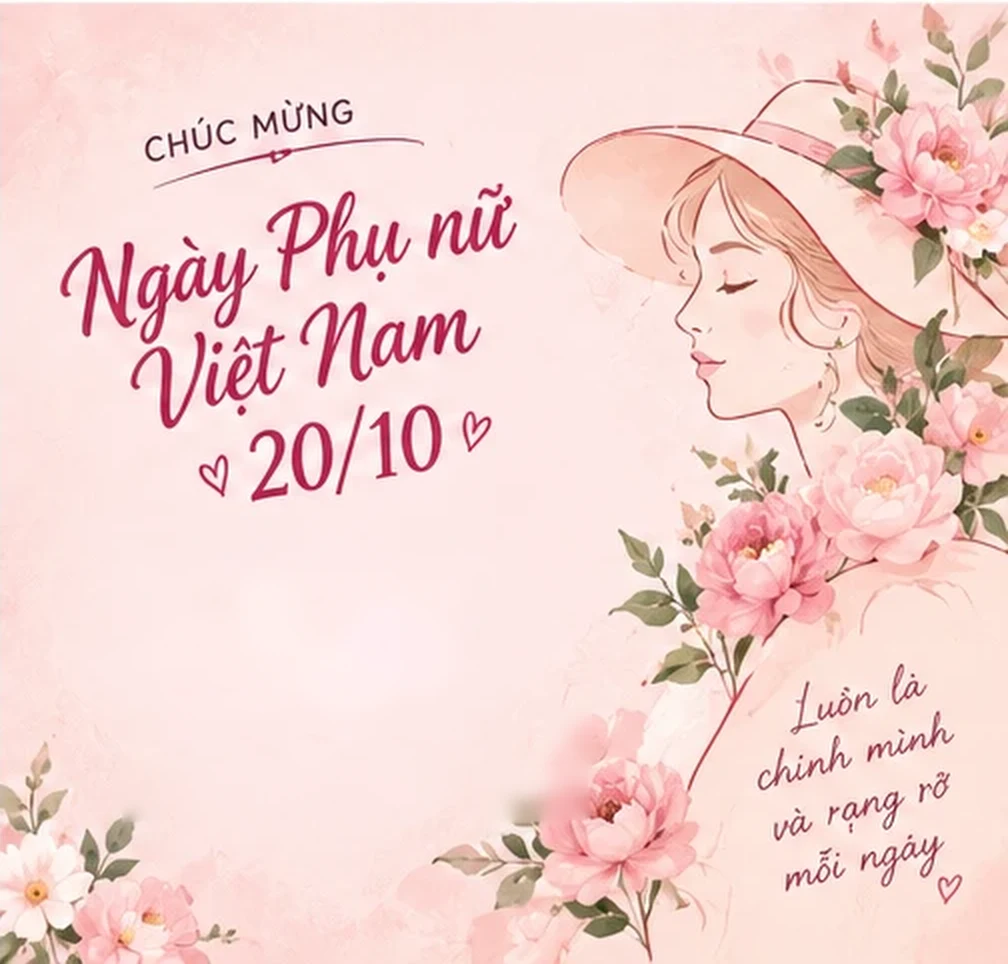
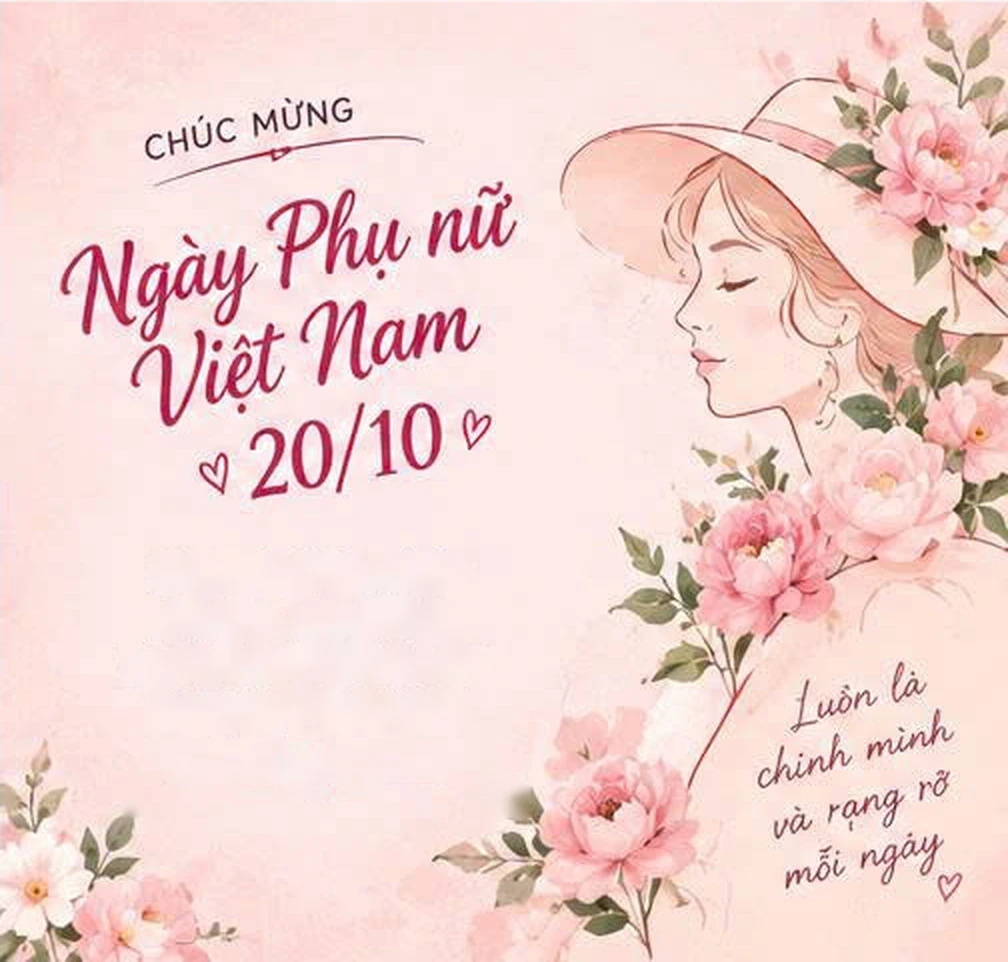
Thiệp: dùng ảnh chất lượng cao, bỏ bó hoa/danh hiệu/chuyên gia, chữ ký xuống dưới, bố cục thoáng
Claude-Session: https://claude.ai/code/session_014NvTU2FGoSxuqwznEUZ16q

diff --git a/assets/modules.js b/assets/modules.js
@@ -69,7 +69,7 @@ function w20DrawBouquet(g, cx, cy, S, list) {
 }
 /* ===== Chibi: đầu là ảnh thật (assets/men), thân vẽ bằng canvas ===== */
 var W20IMG = {};
-function w20Img(src) { if (!W20IMG[src]) { var im = new Image(); im.src = /^assets\//.test(src) ? src + "?v=20261052" : src; W20IMG[src] = im; } return W20IMG[src]; }
+function w20Img(src) { if (!W20IMG[src]) { var im = new Image(); im.src = /^assets\//.test(src) ? src + "?v=20261061" : src; W20IMG[src] = im; } return W20IMG[src]; }
 function w20Rr(g, x, y, w, h, r) { g.beginPath(); g.moveTo(x + r, y); g.arcTo(x + w, y, x + w, y + h, r); g.arcTo(x + w, y + h, x, y + h, r); g.arcTo(x, y + h, x, y, r); g.arcTo(x, y, x + w, y, r); g.closePath(); }
 /* o: {img, shirt, step (pha chạy), up (0..1 giơ tay), lift (nhảy, px), flower (emoji hoặc null), dir (+1 nhìn phải, -1 nhìn trái)} */
 function w20Chibi(g, cx, gy, sc, o) {
@@ -303,12 +303,12 @@ function w20Wavy(g, x1, x2, y, col) { g.save(); g.strokeStyle = col; g.lineWidth
 /* ===== 10 mẫu thiệp: nền, khung, hoa màu nước thật (tách từ ảnh gốc) đổi tông/đổi chỗ, hạt lấp lánh, ren, bướm… Mẫu 0 = hoa hồng gốc (mặc định) ===== */
 /* ===== 6 mẫu thiệp: nền là ảnh thiệp (assets/cards), đã xoá lời chúc gốc; chữ riêng từng người được vẽ lên khung "blk" ===== */
 var W20THEMES = [
-  { name: "Bó hồng trên bàn", file: "t1", w: 1536, h: 1024, blk: { x: 215, y: 516, w: 485, h: 214 }, bq: { x: 108, y: 640, s: 52 }, ink: "#4a3036", acc: "#d81b60", em: "🌹" },
-  { name: "Hoa hồng nắng sớm", file: "t2", w: 1530, h: 1070, blk: { x: 200, y: 646, w: 555, h: 232 }, bq: { x: 98, y: 800, s: 58 }, ink: "#4a3036", acc: "#d81b60", em: "🌸" },
-  { name: "Trời xanh mây hồng", file: "t3", w: 1528, h: 1070, blk: { x: 205, y: 732, w: 565, h: 268 }, bq: { x: 100, y: 850, s: 52 }, ink: "#274a43", acc: "#b8305c", em: "🌷" },
-  { name: "Tulip trên giấy", file: "t4", w: 1016, h: 964, blk: { x: 410, y: 474, w: 400, h: 296 }, bq: { x: 100, y: 128, s: 44 }, ink: "#4a3a3a", acc: "#c43563", em: "💌" },
-  { name: "Cúc hoạ mi và sách", file: "t5", w: 1024, h: 964, blk: { x: 122, y: 428, w: 464, h: 216 }, bq: { x: 96, y: 800, s: 56 }, ink: "#37483f", acc: "#e0245e", em: "📚" },
-  { name: "Quý cô và hoa", file: "t6", w: 1008, h: 964, blk: { x: 116, y: 528, w: 456, h: 284 }, bq: { x: 88, y: 868, s: 52 }, ink: "#6a1f3a", acc: "#b02a58", em: "👒" }
+  { name: "Bó hồng trên bàn", file: "t1", w: 1536, h: 1024, blk: { x: 205, y: 512, w: 500, h: 226 }, ink: "#4a3036", acc: "#d81b60", em: "🌹" },
+  { name: "Hoa hồng nắng sớm", file: "t2", w: 1528, h: 1070, blk: { x: 170, y: 640, w: 590, h: 250 }, ink: "#4a3036", acc: "#d81b60", em: "🌸" },
+  { name: "Trời xanh mây hồng", file: "t3", w: 1528, h: 1070, blk: { x: 205, y: 732, w: 565, h: 268 }, ink: "#274a43", acc: "#b8305c", em: "🌷" },
+  { name: "Tulip trên giấy", file: "t4", w: 1014, h: 962, blk: { x: 420, y: 476, w: 430, h: 290 }, ink: "#4a3a3a", acc: "#c43563", em: "💌" },
+  { name: "Cúc hoạ mi và sách", file: "t5", w: 1020, h: 962, blk: { x: 150, y: 438, w: 500, h: 212 }, ink: "#37483f", acc: "#e0245e", em: "📚" },
+  { name: "Quý cô và hoa", file: "t6", w: 1008, h: 962, blk: { x: 125, y: 548, w: 420, h: 250 }, ink: "#6a1f3a", acc: "#b02a58", em: "👒" }
 ];
 W20THEMES.forEach(function (t) { t.pv = "url(assets/cards/" + t.file + ".webp) center/cover"; });
 function w20Hex2rgba(h, a) { var n = parseInt(h.slice(1), 16); return "rgba(" + (n >> 16) + "," + ((n >> 8) & 255) + "," + (n & 255) + "," + a + ")"; }
@@ -321,31 +321,27 @@ function w20DrawCard(g, o) {
   W20INK = T.ink; g.save(); g.textBaseline = "alphabetic"; g.textAlign = "center";
   var bg = w20Img("assets/cards/" + T.file + ".webp");
   if (bg.complete && bg.naturalWidth) g.drawImage(bg, 0, 0, W, H); else { g.fillStyle = "#fdf0ee"; g.fillRect(0, 0, W, H); }
-  var nm = o.name || "Chị em Phòng PTSPBL", sub = o.sub || "", role = o.role || "", sg = "Thương mến, " + (o.from || ""), wish = o.wish || "", greet = o.greet || "Thân gửi:";
-  function build(s, useSub, useRole) {
-    var F = b.w * .108 * s, fn = F, gap = F * .3, P = [], h = 0, wf = F * .62, lines;
+  var nm = o.name || "Chị em Phòng PTSPBL", sg = "Thương mến, " + (o.from || ""), wish = o.wish || "", greet = o.greet || "Thân gửi:";
+  /* bố cục thoáng: lời chào, tên, lời chúc, rồi chữ ký ở dưới cùng cách xa lời chúc */
+  function build(s) {
+    var F = b.w * .13 * s, fn = F, P = [], h = 0, wf = F * .62, lines, lh = wf * 1.45;
     g.font = fn + "px " + W20HW; while (g.measureText(nm).width > b.w && fn > 18) { fn -= 2; g.font = fn + "px " + W20HW; }
-    P.push({ t: greet, f: F * .5, y: h + F * .42, col: T.ink }); h += F * .56;
-    P.push({ t: nm, f: fn, y: h + fn * .8, col: T.acc, bold: 1 }); h += fn * 1.08;
-    if (useSub && sub) { P.push({ t: sub, f: F * .44, y: h + F * .4, col: T.ink, fit: 1 }); h += F * .52; }
-    if (useRole && role) { P.push({ t: role, f: F * .5, y: h + F * .5, col: T.ink, wavy: 1, fit: 1 }); h += F * .74; }
-    h += gap * .6; g.font = wf + "px " + W20HW; lines = w20WrapBal(g, wish, b.w * .94); if (lines.length > 6) lines = lines.slice(0, 6);
-    lines.forEach(function (l, k) { P.push({ t: l, f: wf, y: h + wf * .8 + k * wf * 1.3, col: T.ink }); }); h += lines.length * wf * 1.3 + gap * .5;
-    P.push({ t: sg, f: F * .5, y: h + F * .44, col: T.acc, bold: 1, heart: 1, fit: 1 }); h += F * .56;
+    P.push({ t: greet, f: F * .46, y: h + F * .4, col: T.ink }); h += F * .62;
+    P.push({ t: nm, f: fn, y: h + fn * .8, col: T.acc, bold: 1 }); h += fn * 1.0 + F * .5;
+    g.font = wf + "px " + W20HW; lines = w20WrapBal(g, wish, b.w * .78); if (lines.length > 6) lines = lines.slice(0, 6);
+    lines.forEach(function (l, k) { P.push({ t: l, f: wf, y: h + wf * .8 + k * lh, col: T.ink }); }); h += lines.length * lh + F * .8;
+    P.push({ t: sg, f: F * .48, y: h + F * .4, col: T.acc, bold: 1, heart: 1, fit: 1 }); h += F * .56;
     return { P: P, h: h };
   }
-  var L = null, s, tries = [[1, 1], [1, 0], [0, 0]], tk;
-  for (tk = 0; tk < tries.length && !L; tk++) for (s = 1; s >= .5; s -= .05) { var r = build(s, tries[tk][0], tries[tk][1]); if (r.h <= b.h) { L = r; break; } }
-  if (!L) L = build(.5, 0, 0);
-  var y0 = b.y + Math.max(0, (b.h - L.h) * .35);
+  var L = null, s;
+  for (s = 1; s >= .5 && !L; s -= .05) { var r = build(s); if (r.h <= b.h) L = r; }
+  if (!L) L = build(.5);
+  var y0 = b.y + Math.max(0, (b.h - L.h) * .3);
   L.P.forEach(function (p) {
     var f = p.f; if (p.fit) { g.font = f + "px " + W20HW; while (g.measureText(p.t).width > b.w && f > 16) { f -= 2; g.font = f + "px " + W20HW; } }
     var save = W20INK; W20INK = p.col; w20Ink(g, p.t, cx, y0 + p.y, f, p.bold); W20INK = save;
-    if (p.wavy) { var w = g.measureText(p.t).width; w20Wavy(g, cx - w / 2 - 6, cx + w / 2 + 6, y0 + p.y + f * .38, T.acc); }
     if (p.heart) { var w2 = g.measureText(p.t).width; g.save(); g.fillStyle = T.acc; g.textAlign = "left"; g.font = f + "px " + W20HW; g.fillText("♥", cx + w2 / 2 + 8, y0 + p.y); g.restore(); }
   });
-  /* bó hoa các chị cắm: nhỏ ở góc trái */
-  if (o.bq && o.bq.length) w20DrawBouquet(g, T.bq.x, T.bq.y, T.bq.s, o.bq);
   /* anh em com lê cà vạt xếp hàng dưới thiệp (tuỳ chọn) */
   var MEN = (typeof W20CFG !== "undefined" && W20CFG.men) || [], sc = Math.max(.42, W * .00036), dx = W * .075, x0 = W * .36;
   (o.men || []).forEach(function (id, k) { var m = MEN[id]; if (!m) return; w20Chibi(g, x0 + k * dx, H - 12, sc, { img: w20Img(m.img), dir: 1, step: 1.6, up: k % 2 ? 0 : .85, lift: 0 }); });

diff --git a/sep.html b/sep.html
@@ -111,7 +111,7 @@
         <div class="acts">
             <button class="btn" id="dl" type="button">⬇ Tải thiệp về máy</button>
             <button class="btn pink" id="shr" type="button">📤 Chia sẻ</button>
-            <button class="btn ghost" id="rnd" type="button">🎲 Đổi danh hiệu & lời chúc</button>
+            <button class="btn ghost" id="rnd" type="button">🎲 Đổi lời chúc khác</button>
           </div>
           <div class="cwbox" style="margin:6px 0 0;text-align:left;width:100%"><label for="cw" style="font-weight:700">✍ Sửa lời chúc trên thiệp</label>
             <textarea id="cw" maxlength="220" rows="3" placeholder="Gõ lời chúc của riêng mình vào đây, thiệp cập nhật ngay" style="width:100%;margin-top:6px;font:inherit;font-size:16px;border-radius:14px;padding:10px 12px;resize:vertical;box-sizing:border-box"></textarea>
@@ -134,7 +134,7 @@
 <script src="assets/people.js?v=20261022"></script>
 <script src="assets/common.js?v=20261038"></script>
 <script src="assets/flowers.js?v=20261013"></script>
-<script src="assets/modules.js?v=202610151038"></script>
+<script src="assets/modules.js?v=202610151051"></script>
 <script src="assets/boxflow.js?v=202610151017"></script>
 <script src="assets/firebase-sync.js?v=20261030"></script>
 <script>

diff --git a/index.html b/index.html
@@ -131,7 +131,7 @@
 <script src="assets/people.js?v=20261022"></script>
 <script src="assets/common.js?v=20261038"></script>
 <script src="assets/flowers.js?v=20261013"></script>
-<script src="assets/modules.js?v=202610151038"></script>
+<script src="assets/modules.js?v=202610151051"></script>
 <script src="assets/boxflow.js?v=202610151017"></script>
 <script>
 (function () {
